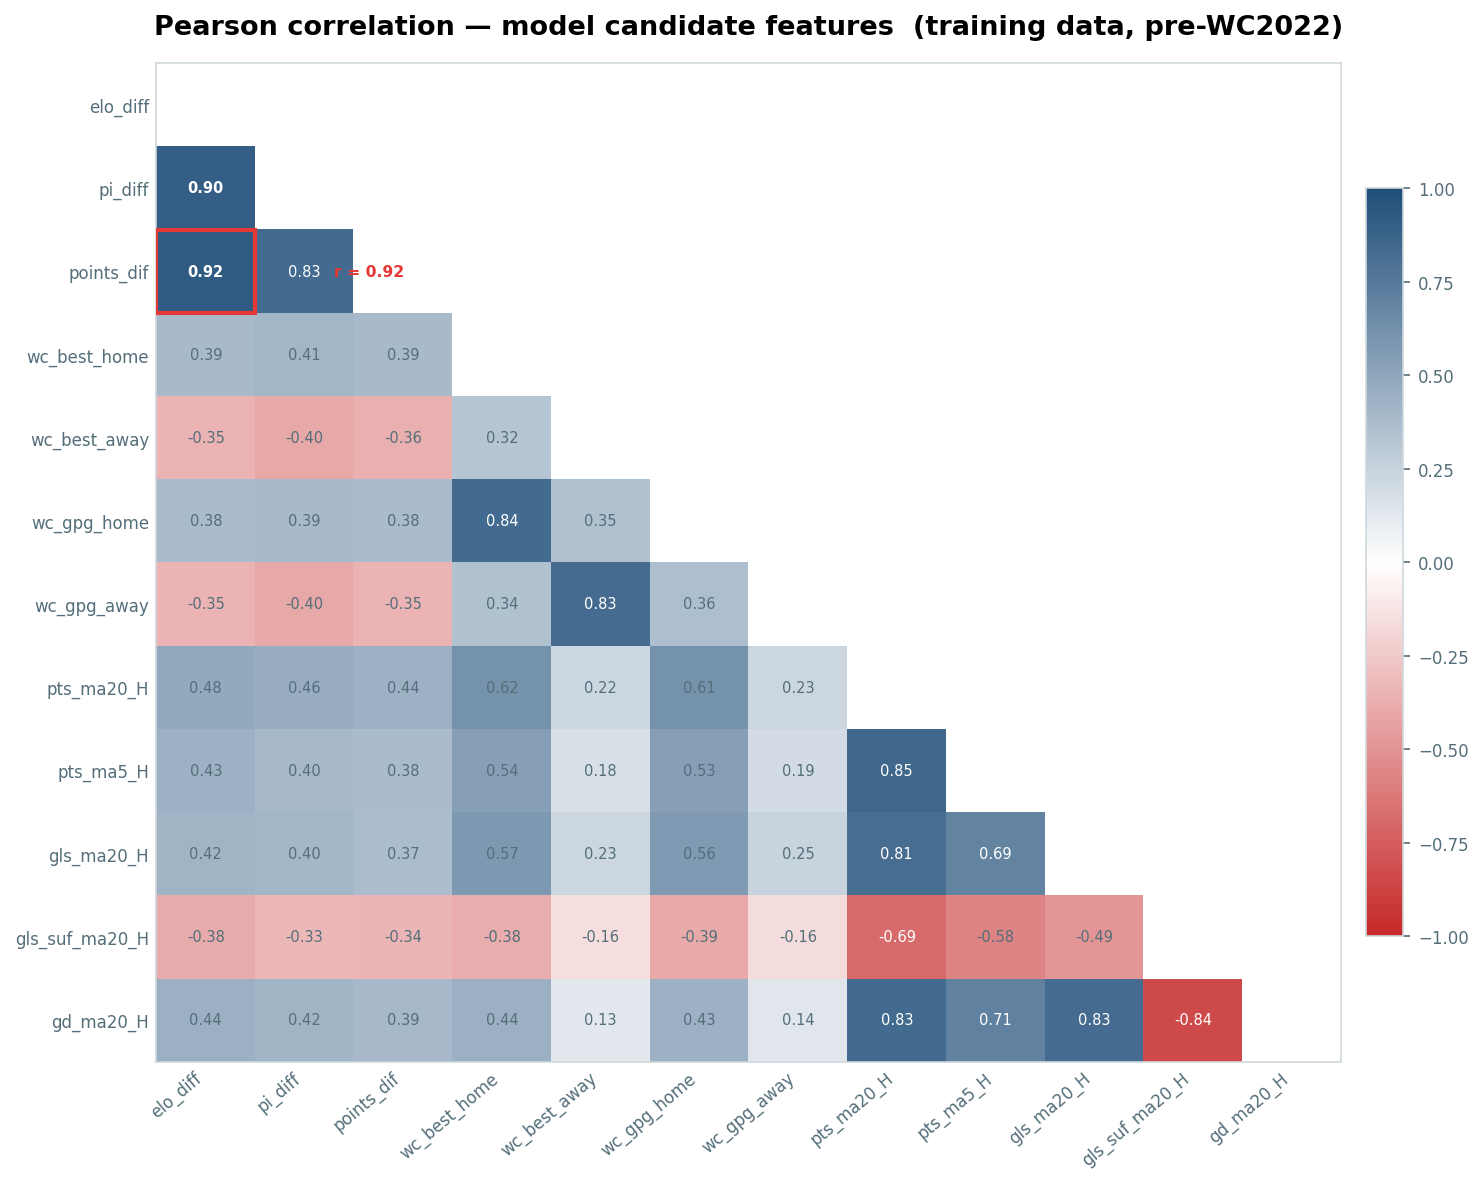
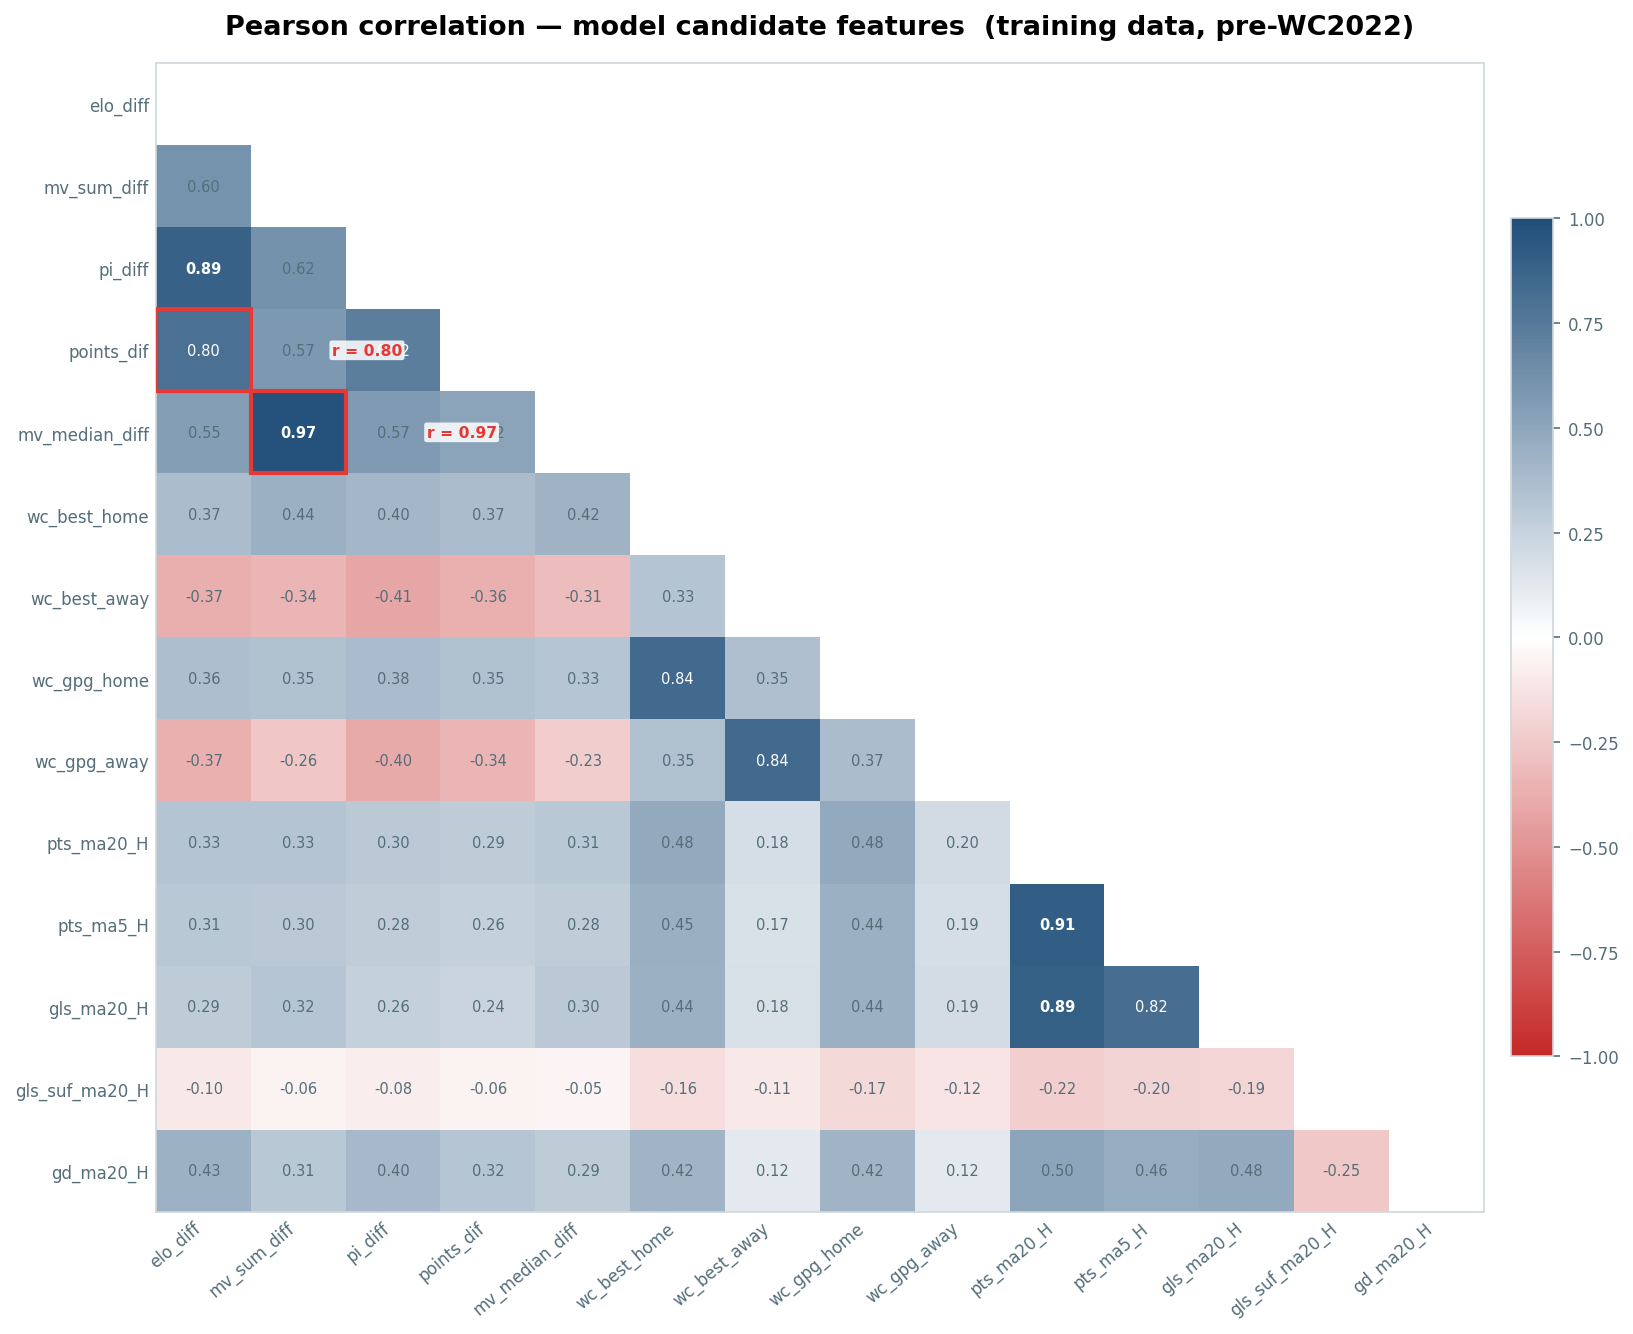
Add market value (mv_sum_diff) to EDA visualizations
Updates eda_feature_predictiveness and eda_correlation_heatmap to include
mv_sum_diff (top-20 squad Transfermarkt sum differential) as an included
feature and mv_median_diff as excluded (Pearson r=0.97 with mv_sum_diff).
Both scripts now load from past_wc files (2005-2022, no overlaps) which
carry MV columns. Highlights auto-read actual Pearson values from the
computed correlation matrix.

diff --git a/viz/eda_correlation_heatmap.py b/viz/eda_correlation_heatmap.py
@@ -1,16 +1,19 @@
 """
 EDA: Pearson correlation heatmap for model candidate features.
 
-Lower-triangular heatmap. Key finding: elo_diff and points_dif
-have r=0.92 → points_dif was excluded from all final models.
+Lower-triangular heatmap. Key findings:
+  elo_diff / points_dif     r=0.92 -> points_dif excluded
+  mv_sum_diff / mv_med_diff r=0.91 -> mv_median_diff excluded
+
+Data source: concatenated past_wc files (2005-2022, no overlaps).
 
 Run from the project root:
     python -m viz.eda_correlation_heatmap
 """
 
+import glob
 import pandas as pd
 import matplotlib.pyplot as plt
-import matplotlib.ticker as ticker
 import numpy as np
 
 OUTPUT_PATH = 'viz/output/eda_correlation_heatmap.png'
@@ -22,8 +25,10 @@ C_SPINE  = '#CFD8DC'
 # Columns to include and their short display labels
 COLS_AND_LABELS = [
     ('elo_diff',                           'elo_diff'),
+    ('mv_sum_diff',                        'mv_sum_diff'),
     ('pi_diff',                            'pi_diff'),
     ('points_dif',                         'points_dif'),
+    ('mv_median_diff',                     'mv_median_diff'),
     ('home_wc_best_round',                 'wc_best_home'),
     ('away_wc_best_round',                 'wc_best_away'),
     ('home_wc_goals_per_game',             'wc_gpg_home'),
@@ -37,7 +42,11 @@ COLS_AND_LABELS = [
 
 
 def run():
-    df = pd.read_csv('data/ranked_database_with_features.csv')
+    # Past-WC files cover 2005-2022 with no overlap and include MV columns.
+    files = sorted(glob.glob('data/past_wc/wc*/ranked_database_with_features.csv'))
+    df = pd.concat([pd.read_csv(f) for f in files], ignore_index=True)
+    df['mv_sum_diff']    = df['home_mv_top20_sum']    - df['away_mv_top20_sum']
+    df['mv_median_diff'] = df['home_mv_top20_median'] - df['away_mv_top20_median']
     df['date'] = pd.to_datetime(df['date'])
     train = (
         df[df['date'] < TRAIN_CUTOFF]
@@ -48,6 +57,7 @@ def run():
     cols   = [c for c, _ in COLS_AND_LABELS if c in train.columns]
     labels = [l for c, l in COLS_AND_LABELS if c in train.columns]
 
+    # Pairwise Pearson (pandas handles NaN pairs automatically)
     corr = train[cols].corr(method='pearson')
 
     # Mask upper triangle + diagonal
@@ -55,11 +65,10 @@ def run():
     np.fill_diagonal(mask, True)
 
     n = len(cols)
-    fig, ax = plt.subplots(figsize=(10, 8))
+    fig, ax = plt.subplots(figsize=(11, 9))
     fig.patch.set_facecolor('white')
     ax.set_facecolor('white')
 
-    # Custom diverging colormap: red (−1) → white (0) → dark blue (+1)
     from matplotlib.colors import LinearSegmentedColormap
     cmap = LinearSegmentedColormap.from_list(
         'rb_div', ['#C62828', '#FFFFFF', '#1F4E79'], N=256
@@ -70,7 +79,6 @@ def run():
 
     im = ax.imshow(masked_corr.values, cmap=cmap, vmin=-1, vmax=1, aspect='auto')
 
-    # Cell annotations
     for i in range(n):
         for j in range(n):
             if mask[i, j]:
@@ -81,28 +89,34 @@ def run():
             ax.text(j, i, f'{val:.2f}', ha='center', va='center',
                     fontsize=7, color=text_col, fontweight=weight)
 
-    # Highlight the elo_diff / points_dif cell border
-    # In a lower-triangular layout the cell sits at (row=points_dif, col=elo_diff)
-    try:
-        ri = labels.index('points_dif')   # row — the larger index
-        ci = labels.index('elo_diff')     # col — the smaller index
-        rect = plt.Rectangle((ci - 0.5, ri - 0.5), 1, 1,
-                              linewidth=2, edgecolor='#E53935',
-                              facecolor='none', zorder=5)
-        ax.add_patch(rect)
-        ax.text(ci + 1.3, ri, 'r = 0.92', ha='left', va='center',
-                fontsize=7.5, color='#E53935', fontweight='bold')
-    except ValueError:
-        pass
+    def highlight_cell(row_label, col_label, color):
+        """Highlight a lower-triangle cell and annotate with its actual Pearson r."""
+        try:
+            ri = labels.index(row_label)
+            ci = labels.index(col_label)
+            if ri <= ci:
+                ri, ci = ci, ri
+            val = corr.values[ri, ci]
+            rect = plt.Rectangle((ci - 0.5, ri - 0.5), 1, 1,
+                                  linewidth=2, edgecolor=color,
+                                  facecolor='none', zorder=5)
+            ax.add_patch(rect)
+            ax.text(ci + 1.35, ri, f'r = {val:.2f}', ha='left', va='center',
+                    fontsize=7.5, color=color, fontweight='bold',
+                    bbox=dict(boxstyle='round,pad=0.15', fc='white',
+                              ec='none', alpha=0.85))
+        except ValueError:
+            pass
 
-    # Axis labels
+    highlight_cell('points_dif',    'elo_diff',    '#E53935')
+    highlight_cell('mv_median_diff', 'mv_sum_diff', '#E53935')
+
     ax.set_xticks(range(n))
     ax.set_xticklabels(labels, rotation=40, ha='right', fontsize=8)
     ax.set_yticks(range(n))
     ax.set_yticklabels(labels, fontsize=8)
     ax.tick_params(axis='both', colors=C_ANNOT, length=0)
 
-    # Colorbar
     cbar = fig.colorbar(im, ax=ax, fraction=0.03, pad=0.02)
     cbar.ax.tick_params(labelsize=8, colors=C_ANNOT)
     cbar.outline.set_edgecolor(C_SPINE)

diff --git a/viz/eda_feature_predictiveness.py b/viz/eda_feature_predictiveness.py
@@ -5,10 +5,13 @@ Ranks all model candidate features by absolute Spearman correlation
 with match result (0=home win, 1=draw, 2=away win), highlighting
 which features were included in the final models vs excluded.
 
+Data source: concatenated past_wc files (2005-2022, no overlaps).
+
 Run from the project root:
     python -m viz.eda_feature_predictiveness
 """
 
+import glob
 import pandas as pd
 import matplotlib.pyplot as plt
 import matplotlib.patches as mpatches
@@ -26,8 +29,10 @@ C_SPINE    = '#CFD8DC'
 # Features to evaluate.  True = included in at least one final model.
 FEATURES = [
     ('elo_diff',                          True,  'ELO difference'),
+    ('mv_sum_diff',                       True,  'Market value sum diff  (top-20 squad)'),
     ('pi_diff',                           False, 'π-rating diff  (excluded — r=0.90 with ELO)'),
     ('points_dif',                        False, 'FIFA points diff  (excluded — r=0.92 with ELO)'),
+    ('mv_median_diff',                    False, 'Market value median diff  (excluded — r=0.91 with MV sum)'),
     ('home_wc_best_round',                True,  'Home WC best round'),
     ('away_wc_best_round',                True,  'Away WC best round'),
     ('home_wc_goals_per_game',            True,  'Home WC goals/game'),
@@ -46,7 +51,12 @@ FEATURES = [
 
 
 def run():
-    df = pd.read_csv('data/ranked_database_with_features.csv')
+    # Past-WC files cover 2005-2022 with no overlap — use them as training source
+    # so MV columns (only in past_wc files) are available alongside all other features.
+    files = sorted(glob.glob('data/past_wc/wc*/ranked_database_with_features.csv'))
+    df = pd.concat([pd.read_csv(f) for f in files], ignore_index=True)
+    df['mv_sum_diff']    = df['home_mv_top20_sum']    - df['away_mv_top20_sum']
+    df['mv_median_diff'] = df['home_mv_top20_median'] - df['away_mv_top20_median']
     df['date'] = pd.to_datetime(df['date'])
     train = (
         df[df['date'] < TRAIN_CUTOFF]
